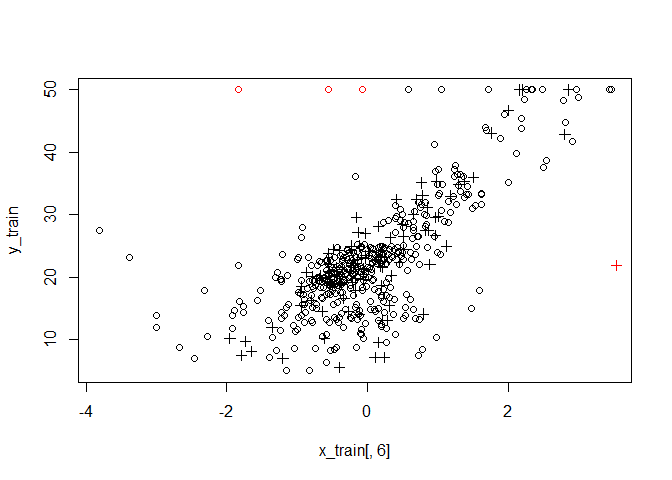
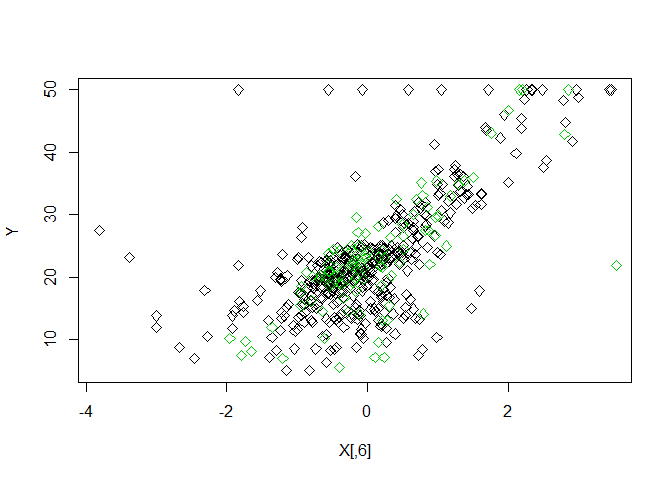
finalised all I want to do with this data

diff --git a/nnBoston.md b/nnBoston.md
@@ -3,7 +3,7 @@ nnBostonHousing
 Ingrid Baade
 March 13, 2018
 
-I wanted to try using keras from within R, having used keras in Python in the Coursera Deep Learning Specialization. The sequence model I'm going to build is for the Boston Housing data. It has 506 rows and 14 columns; 13 predictors and Y = house price. The data is from the 1970 census. The 506 rows are broken into a training set (404 samples) and a test set (102 samples).
+I wanted to try using keras from within R, having used keras in Python in the Coursera Deep Learning Specialization. The sequence model I'm going to build is for the Boston Housing data. It has 506 rows and 14 columns; 13 predictors and Y = house price, so not much data. The data is from the 1970 census. The 506 rows are broken into a training set (404 samples) and a test set (102 samples). This runs a neural network model on the divison of the data into training and test sets.
 
 ``` r
 # devtools::install_github("rstudio/keras")
@@ -12,11 +12,6 @@ library(keras)
 ```
 
 ``` r
-set.seed(1)
-numit <- 10
-train_loss<-rep(0,numit)
-test_loss<-rep(0,numit)
-
 boston <- dataset_boston_housing()
 x_train <- scale(boston$train$x)
 y_train <- boston$train$y
@@ -24,14 +19,11 @@ y_train <- boston$train$y
 x_test <- scale(boston$test$x, attr(x_train, "scaled:center"), attr(x_train, "scaled:scale"))
 y_test <- boston$test$y
 
-all_boston_x<-rbind(x_train, x_test)
-all_boston_y<-c(y_train, y_test)
-
 model <- keras_model_sequential()
 model %>% 
   layer_dense(units = 50, activation = NULL, input_shape = c(13)) %>% 
   layer_activation(activation='relu') %>%
-  layer_dropout(0.3) %>%
+#  layer_dropout(0.3) %>%             worked better without dropout; not enough data  
   layer_dense(units = 1) 
 
 summary(model)
@@ -43,8 +35,6 @@ summary(model)
     ## dense_1 (Dense)                  (None, 50)                    700         
     ## ___________________________________________________________________________
     ## activation_1 (Activation)        (None, 50)                    0           
-    ## ___________________________________________________________________________
-    ## dropout_1 (Dropout)              (None, 50)                    0           
     ## ___________________________________________________________________________
     ## dense_2 (Dense)                  (None, 1)                     51          
     ## ===========================================================================
@@ -61,66 +51,58 @@ model %>% compile(
 
 history <- model %>% fit(
   x_train, y_train, 
-  epochs = 300, batch_size = 32, 
-  validation_split = 0.0, verbose=0)
+  epochs = 500, batch_size = 32, 
+  validation_split = 0.1, verbose=0)
 
-trainRes<-predict(model,x_train)-as.matrix(y_train)
-testRes<-predict(model,x_test)-as.matrix(y_test)
-plot(1:404,trainRes, xlim=c(0,506), ylim=c(min(c(trainRes,testRes)),max(c(trainRes,testRes))),ylab="Residuals", xlab="Index")
-points(405:506, testRes,col=2)
+trainres<-as.matrix(y_train) - predict(model,x_train)
+testres<- as.matrix(y_test) - predict(model,x_test)
 ```
 
-![](nnBoston_files/figure-markdown_github/keras-1.png)
+Fit ols model and plot residuals.
 
 ``` r
-for (i in 1:numit){
-    
-this_sample<-sample(1:506,102, replace=F)
-train_index<-which(!(1:506 %in% this_sample))
-test_index<-which(1:506 %in% this_sample)
+lmfit <-lm(y_train ~ x_train)
+lmtrainres<-as.matrix(y_train) - (x_train%*%lmfit$coefficients[2:14] + lmfit$coefficients[1])
+lmtestres <-as.matrix(y_test) - (x_test%*%lmfit$coefficients[2:14] + lmfit$coefficients[1])
 
-train_x <- all_boston_x[train_index,]
-train_y <- all_boston_y[train_index]
-
-test_x <- all_boston_x[test_index,]
-test_y <- all_boston_y[test_index]
-
-x_train <- scale(train_x)
-y_train <- train_y
-# The test values should be scaled with mu and sd from training data, NOT "x_test <- scale(test_x)"
-x_test <- scale(test_x, attr(x_train, "scaled:center"), attr(x_train, "scaled:scale"))
-y_test <- test_y
-
-model <- keras_model_sequential()
-model %>% 
-  layer_dense(units = 50, activation = NULL, input_shape = c(13)) %>% 
-  layer_activation(activation='relu') %>%
-  layer_dropout(0.3) %>%
-  layer_dense(units = 1) 
-
-#summary(model)
-
-model %>% compile(
-  loss = loss_mean_squared_error,
-  optimizer = optimizer_adam()
-)
-
-history <- model %>% fit(
-  x_train, y_train, 
-  epochs = 300, batch_size = 32, 
-  validation_split = 0.0, verbose=0)
-
-#plot(history)
-
-test_loss[i] <- model %>% evaluate(x=x_test, y=y_test) # This returns the loss.
-train_loss[i] <- model %>% evaluate(x=x_train, y=y_train)
-
-trainRes<-predict(model,x_train)-as.matrix(y_train)
-testRes<-predict(model,x_test)-as.matrix(y_test)
-plot(1:404,trainRes, xlim=c(0,506), ylim=c(min(c(trainRes,testRes)),max(c(trainRes,testRes))),ylab="Residuals", xlab="Index")
-points(405:506, testRes,col=2)
-
-}
+plot(1:404,trainres, xlim=c(0,506), ylim=c(min(c(trainres,testres, lmtrainres, lmtestres)),max(c(trainres,testres,lmtrainres, lmtestres))),ylab="Residuals", xlab="Index")
+points(405:506, testres,col=3)
+points(1:404, lmtrainres, pch=3)
+points(405:506, lmtestres, pch=3, col=3)
 ```
 
-![](nnBoston_files/figure-markdown_github/keras-2.png)![](nnBoston_files/figure-markdown_github/keras-3.png)![](nnBoston_files/figure-markdown_github/keras-4.png)![](nnBoston_files/figure-markdown_github/keras-5.png)![](nnBoston_files/figure-markdown_github/keras-6.png)![](nnBoston_files/figure-markdown_github/keras-7.png)![](nnBoston_files/figure-markdown_github/keras-8.png)![](nnBoston_files/figure-markdown_github/keras-9.png)![](nnBoston_files/figure-markdown_github/keras-10.png)![](nnBoston_files/figure-markdown_github/keras-11.png)
+![](nnBoston_files/figure-markdown_github/lm%20fit-1.png)
+
+Plot of residuals from training data in black and test data in green. Neural net model is circles and linear model is crosses.
+
+Inspection of y variable against each explanatory variable shows an outlier in the test group for variable 6. In this plot, the training set is in black and the test set is in green.
+
+``` r
+plot(x_train[,6],y_train, xlab="X[,6]", ylab="Y", pch=5)
+points(x_test[,6],y_test,col=3,pch=5)
+```
+
+![](nnBoston_files/figure-markdown_github/variable%206-1.png)
+
+Plot of Y versus explanatory variable 6. Black is training data, green is test set data.
+
+A quick scan of the residuals and leverage is always worthwhile. I've used the H matrix from all the data. The outlying x value for variable 6 (generating the large residual) has somewhat high leverage but not the worst.
+
+``` r
+X<-cbind(1,rbind(x_train, x_test))
+H<-X%*%(solve(t(X)%*%X)%*%t(X))
+
+minlim<-min(lmtrainres, trainres, lmtestres, testres)
+maxlim<-max(lmtrainres, trainres, lmtestres, testres)
+plot(lmtrainres,diag(H[1:404, 1:404]), xlim=c(minlim,maxlim), pch=3, xlab="Residuals", ylab="Leverage")
+points(trainres,diag(H[1:404, 1:404]))
+abline(v=0,lty=2)
+points(testres,diag(H[405:506, 405:506]), col=3)
+points(lmtestres,diag(H[405:506, 405:506]), pch=3, col=3)
+```
+
+![](nnBoston_files/figure-markdown_github/Cooks-1.png)
+
+Plot of residuals versus leverage from training data in black and test data in green. Neural net model is circles and linear model is crosses.
+
+How can we look at the test set and decide if we have high leverage cases that might be "dissimilar to the training data"?
